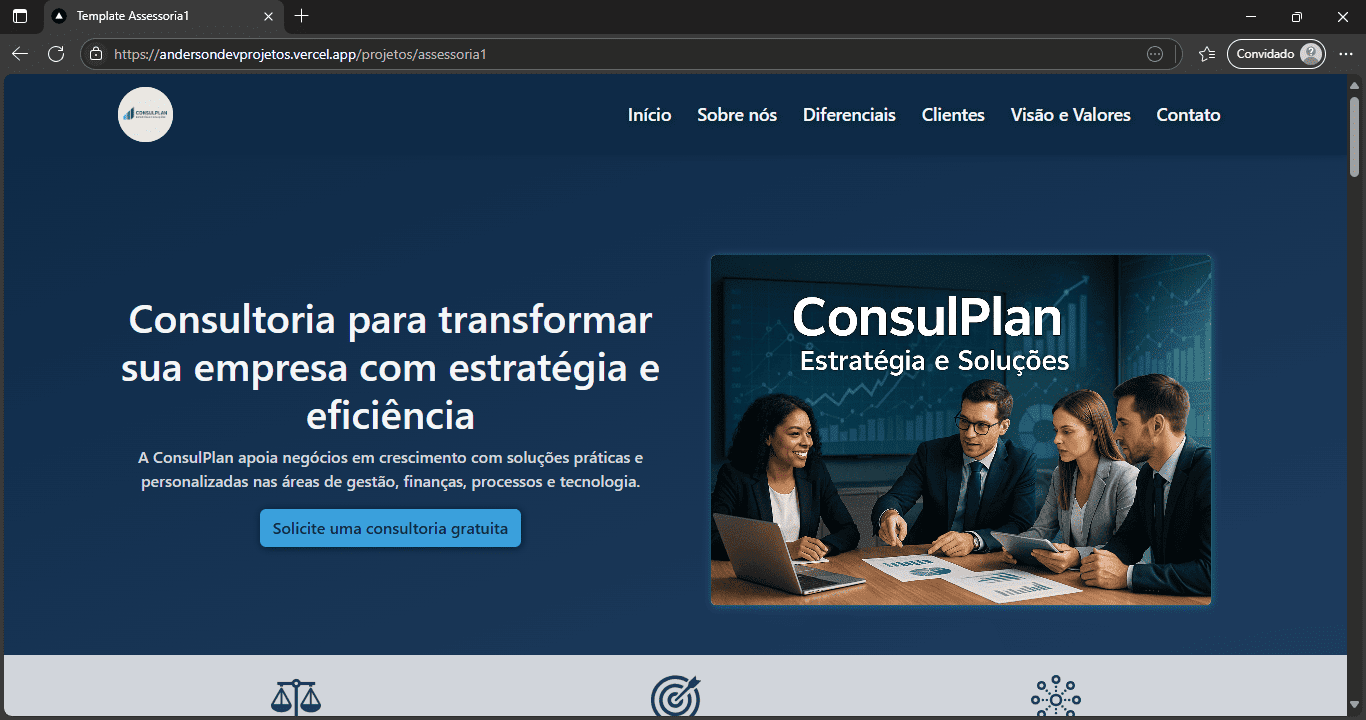
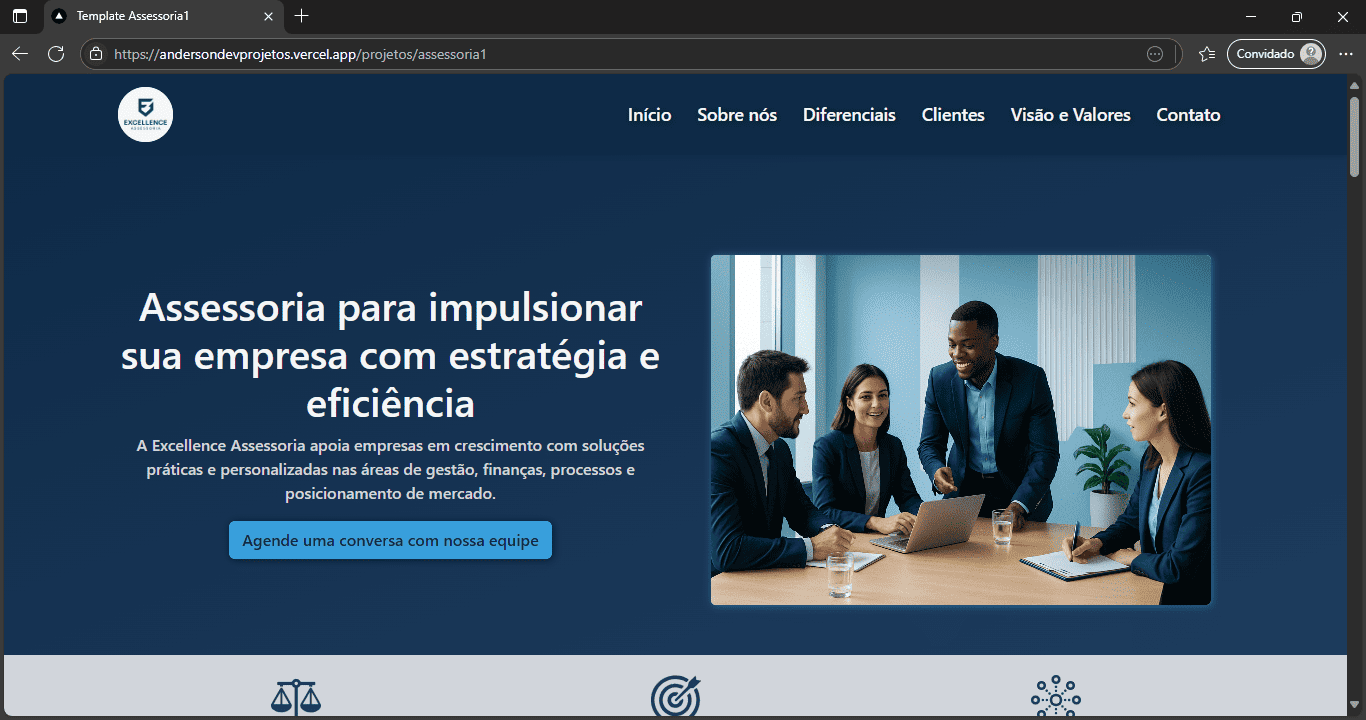
update

diff --git a/app/projetos/items.js b/app/projetos/items.js
@@ -6,7 +6,7 @@ const itemsProjetos = [
   {
     imagem: assessoria1IMG,
     descricao:
-      "Projeto pessoal desenvolvido com o objetivo de praticar a construção de uma landing page institucional completa. A ConsulPlan é uma consultoria fictícia voltada à transformação de empresas por meio de estratégias nas áreas de gestão, finanças, processos e tecnologia. ",
+      "Projeto pessoal desenvolvido com o objetivo de praticar a criação de uma landing page institucional completa. A Excellence Assessoria é uma empresa fictícia dedicada a apoiar a transformação de negócios por meio de soluções estratégicas nas áreas de gestão, finanças, processos e tecnologia.",
     link: "https://andersondevprojetos.vercel.app/projetos/assessoria1",
   },
   {

diff --git a/app/_secoes/secaohero/botaocta.jsx b/app/_secoes/secaohero/botaocta.jsx
@@ -1,12 +1,14 @@
 "use client";
 import Button from "react-bootstrap/Button";
 import { useRouter } from "next/navigation";
+
 export default function BotaoCTA() {
   const router = useRouter();
   return (
     <Button
       onClick={() => {
-        router.push("/projetos");
+        // router.push("/projetos");
+        document.getElementById("s-projetos").scrollIntoView();
       }}
     >
       Ver projetos
